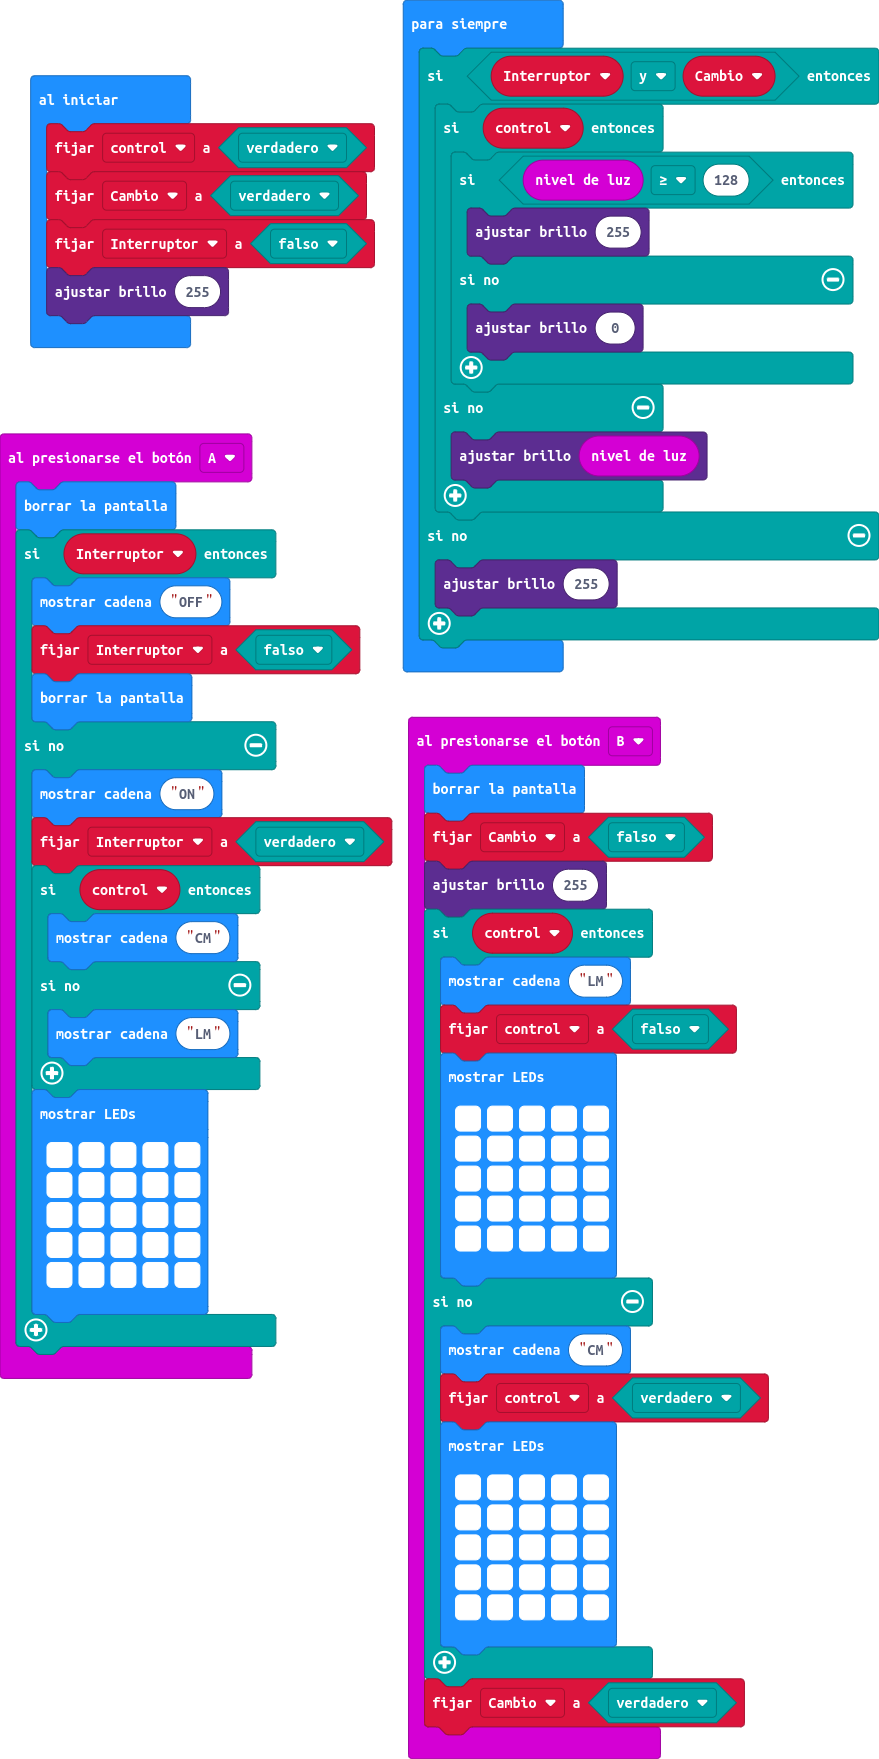
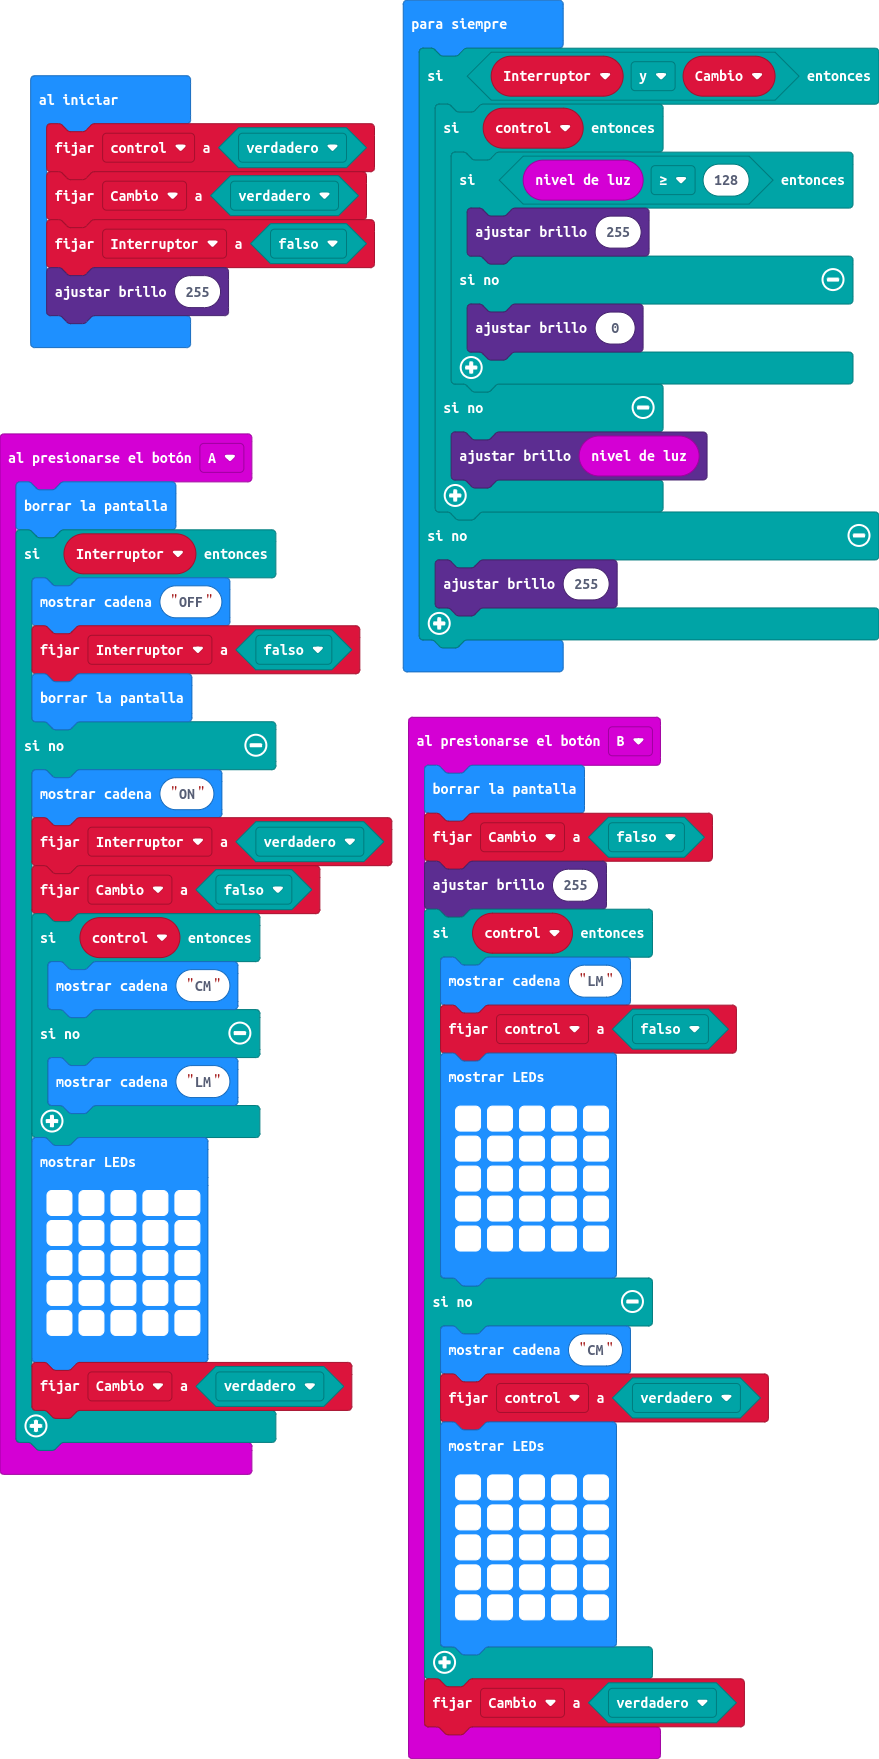
"La placa no se ilumina" se arregló

Changed region(s): [[0.0, 0.4912, 0.3993, 0.8596]]

diff --git a/main.ts b/main.ts
@@ -7,6 +7,7 @@ input.onButtonPressed(Button.A, function () {
     } else {
         basic.showString("ON")
         Interruptor = true
+        Cambio = false
         if (control2) {
             basic.showString("CM")
         } else {
@@ -19,6 +20,7 @@ input.onButtonPressed(Button.A, function () {
             # # # # #
             # # # # #
             `)
+        Cambio = true
     }
 })
 input.onButtonPressed(Button.B, function () {
